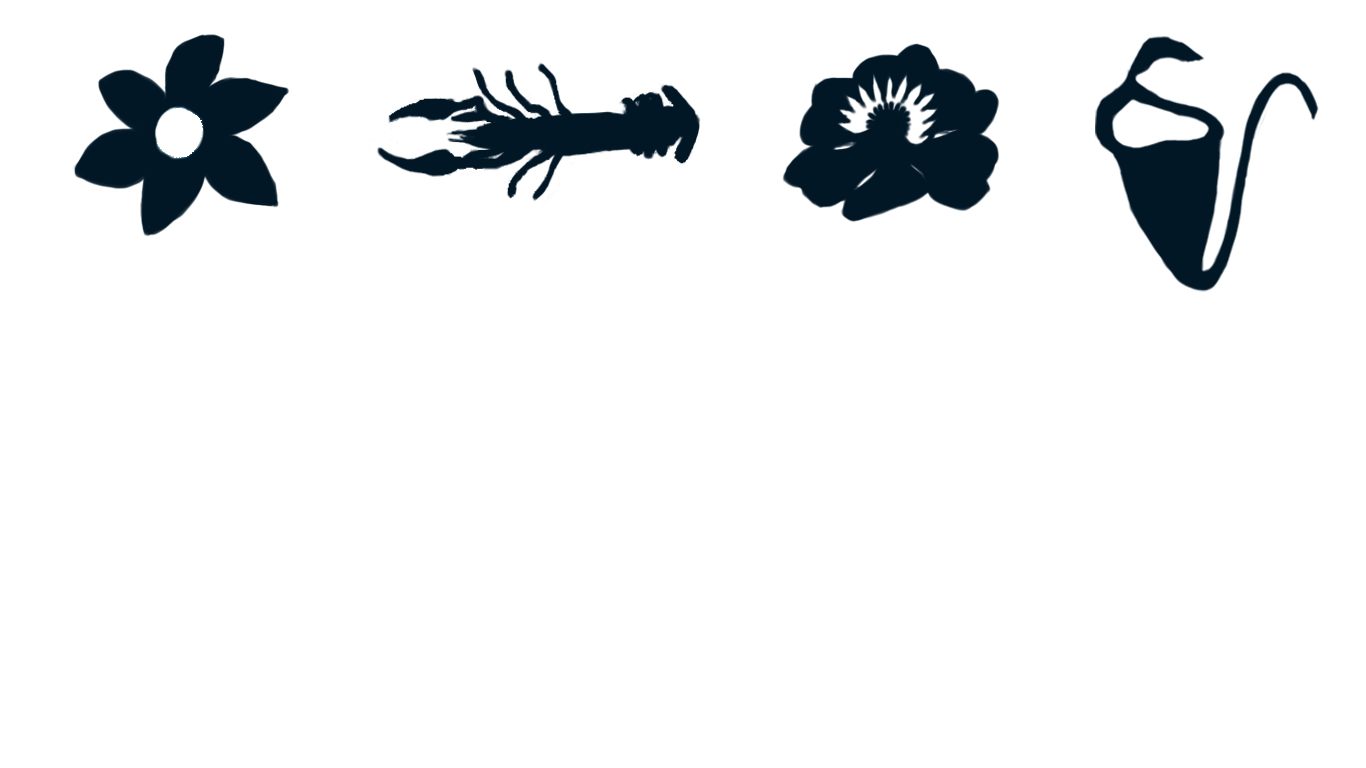
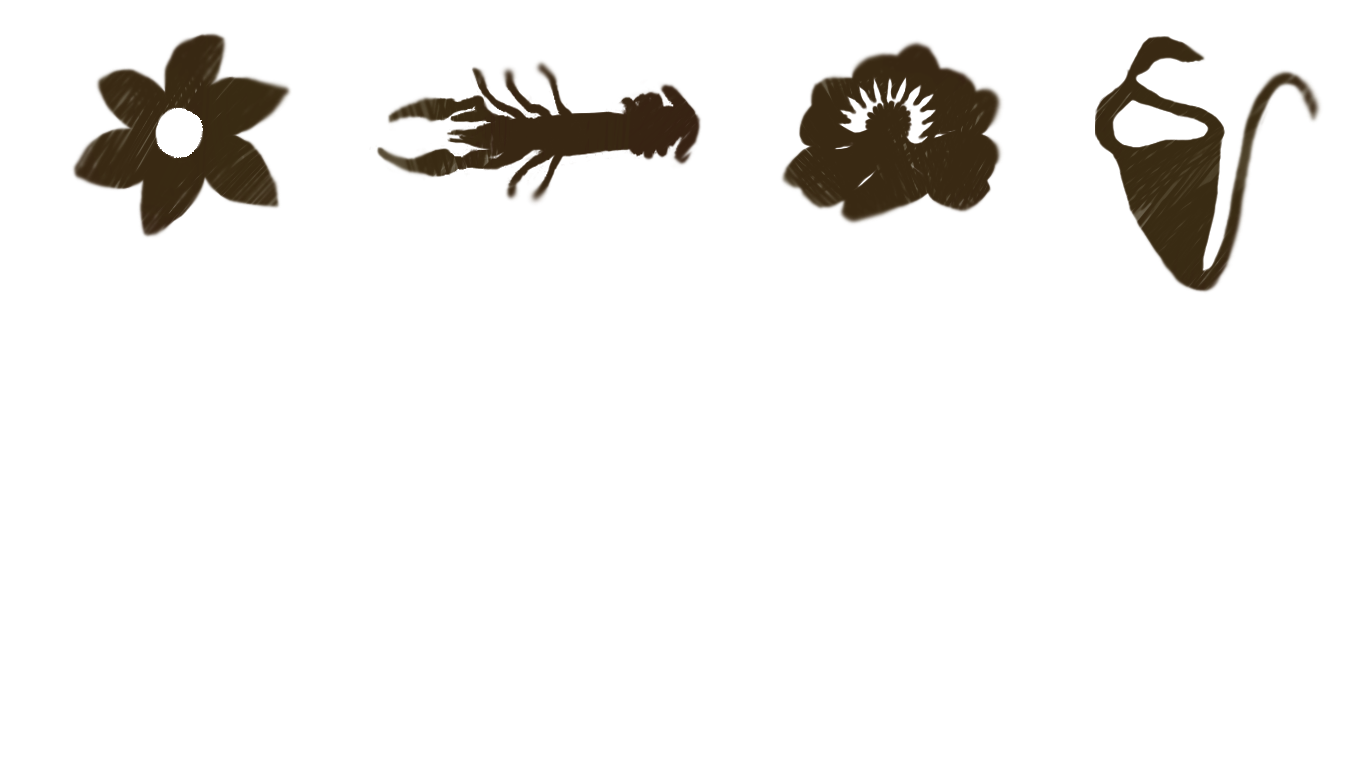
species section

diff --git a/index.html b/index.html
@@ -79,13 +79,13 @@
 		<h4>Many plant and animal species were named after him,including a dinosaur</h4>
 	</section>
 	<section id="species" class="illubox">
-		<div class="absolute">
+		<div class="absolute" data-600-top="opacity: 0.2;" data-400-top="opacity: 1;" data-top="opacity: 0.8;">
 			<img src="imgs/species-row1.png" class="col-12">
 		</div>
-		<div class="absolute">
+		<div class="absolute" data-500-top="opacity: 0.2;" data-50-top="opacity: 1;" data-top="opacity: 0.8;">
 			<img src="imgs/species-row2.png" class="col-12">
 		</div>
-		<div class="absolute">
+		<div class="absolute" data-200-top="opacity: 0.2;" data-top="opacity: 1;">
 			<img src="imgs/species-row3.png" class="col-12">
 		</div>
 	</section>

diff --git a/style.css b/style.css
@@ -44,11 +44,17 @@ section {
 #gorillas {
 	background-color: #2e3c17;
 }
-#whale, #scenery {
+#whale {
 	background-color: #c1e1ff;
 }
 #manta {
 	background-color: #013f68;
+}
+#species {
+	background-color: #ceb382;
+}
+#scenery {
+	background-color: #c6d3e0;
 }
 
 @media screen and (min-width: 400px){
